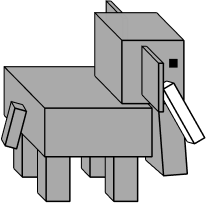
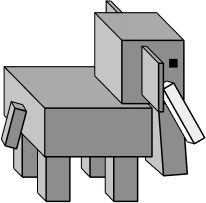
Simulate light on textures.

diff --git a/js/main.js b/js/main.js
@@ -110,9 +110,9 @@ function degToRad(degrees) {
  * @param fillColor Color of the faces of the box.
  * @param strokeColor Color of the edges of the box.
  */
-function strokeBox(x, y, z, width, height, depth, fillColor = "white", strokeColor = "black") {
+function strokeBox(x, y, z, width, height, depth, fillColor = ["white", "white", "white"], strokeColor = "black") {
     CTX.strokeStyle = strokeColor;
-    CTX.fillStyle = fillColor;
+    CTX.fillStyle = fillColor[2];
     let startPoint = [CANVAS.width / 2 + x - Math.cos(degToRad(45)) * z,
         CANVAS.height / 2 + y - Math.sin(degToRad(45)) * z];
 
@@ -121,24 +121,30 @@ function strokeBox(x, y, z, width, height, depth, fillColor = "white", strokeCol
     CTX.strokeRect(startPoint[0], startPoint[1], width, height);
 
     // Top side
-    let box = new Path2D();
-    box.moveTo(startPoint[0], startPoint[1]);
+    let top = new Path2D();
+    top.moveTo(startPoint[0], startPoint[1]);
     let leftUpPoint = [startPoint[0] - Math.cos(degToRad(45)) * (depth / 2),
         startPoint[1] - Math.sin(degToRad(45)) * (depth / 2)];
-    box.lineTo(leftUpPoint[0], leftUpPoint[1]);
-    box.lineTo(leftUpPoint[0] + width, leftUpPoint[1]);
-    box.lineTo(startPoint[0] + width, startPoint[1]);
-    box.lineTo(startPoint[0], startPoint[1]);
+    top.lineTo(leftUpPoint[0], leftUpPoint[1]);
+    top.lineTo(leftUpPoint[0] + width, leftUpPoint[1]);
+    top.lineTo(startPoint[0] + width, startPoint[1]);
+    top.lineTo(startPoint[0], startPoint[1]);
+
+    CTX.fillStyle = fillColor[1];
+    CTX.fill(top);
+    CTX.stroke(top);
 
     // Left side
-    box.moveTo(leftUpPoint[0], leftUpPoint[1]);
-    box.lineTo(leftUpPoint[0], leftUpPoint[1] + height);
-    box.lineTo(startPoint[0], startPoint[1] + height);
-    box.lineTo(startPoint[0], startPoint[1]);
-    box.closePath();
+    let left = new Path2D();
+    left.moveTo(leftUpPoint[0], leftUpPoint[1]);
+    left.lineTo(leftUpPoint[0], leftUpPoint[1] + height);
+    left.lineTo(startPoint[0], startPoint[1] + height);
+    left.lineTo(startPoint[0], startPoint[1]);
+    left.closePath();
 
-    CTX.fill(box);
-    CTX.stroke(box);
+    CTX.fillStyle = fillColor[0];
+    CTX.fill(left);
+    CTX.stroke(left);
 }
 
 /**
@@ -356,24 +362,24 @@ function tick() {
     SCORE_TEXT.innerHTML = scoreString + score;
 
     // Draw the road
-    strokeBox(-CANVAS.width, ROAD_LOCATION.y, ROAD_LOCATION.z, CANVAS.width * 2, CANVAS.height, ROAD_DEPTH, "skyblue");
+    strokeBox(-CANVAS.width, ROAD_LOCATION.y, ROAD_LOCATION.z, CANVAS.width * 2, CANVAS.height, ROAD_DEPTH, ["#997967", "#966b54", "#7a5743"]);
 
     // Draw walls behind the player
     for (let wall of walls[2]) {
         if (wall.x + wall.width - DEFAULT_PLAYER_LOCATION.x >= 0) {
-            strokeBox(wall.x, wall.y, ROAD_DEPTH / 3, wall.width, wall.height, ROAD_DEPTH / 3, "orange");
+            strokeBox(wall.x, wall.y, ROAD_DEPTH / 3, wall.width, wall.height, ROAD_DEPTH / 3, ["#fc9423", "#fc8403", "#c76700"]);
         }
     }
 
     if (Math.floor(playerLocation.z + PLAYER_DEPTH / 2) < Math.floor(ROAD_DEPTH / 3)) {
         for (let wall of walls[1]) {
-            strokeBox(wall.x, wall.y, ROAD_DEPTH / 6, wall.width, wall.height, ROAD_DEPTH / 3, "orange");
+            strokeBox(wall.x, wall.y, ROAD_DEPTH / 6, wall.width, wall.height, ROAD_DEPTH / 3, ["#fc9423", "#fc8403", "#c76700"]);
         }
     }
 
     if (Math.floor(playerLocation.z + PLAYER_DEPTH / 2) < Math.floor(ROAD_DEPTH / 6)) {
         for (let wall of walls[0]) {
-            strokeBox(wall.x, wall.y, 0, wall.width, wall.height, ROAD_DEPTH / 3, "orange");
+            strokeBox(wall.x, wall.y, 0, wall.width, wall.height, ROAD_DEPTH / 3, ["#fc9423", "#fc8403", "#c76700"]);
         }
     }
 
@@ -396,19 +402,19 @@ function tick() {
     // Draw the walls in front of the player
     for (let wall of walls[2]) {
         if (wall.x + wall.width - DEFAULT_PLAYER_LOCATION.x < 0) {
-            strokeBox(wall.x, wall.y, ROAD_DEPTH / 3, wall.width, wall.height, ROAD_DEPTH / 3, "orange");
+            strokeBox(wall.x, wall.y, ROAD_DEPTH / 3, wall.width, wall.height, ROAD_DEPTH / 3, ["#fc9423", "#fc8403", "#c76700"]);
         }
     }
 
     for (let wall of walls[1]) {
         if (wall.x + wall.width - DEFAULT_PLAYER_LOCATION.x < 0 || Math.floor(playerLocation.z + PLAYER_DEPTH / 2) >= Math.floor(ROAD_DEPTH / 3)) {
-            strokeBox(wall.x, wall.y, ROAD_DEPTH / 6, wall.width, wall.height, ROAD_DEPTH / 3, "orange");
+            strokeBox(wall.x, wall.y, ROAD_DEPTH / 6, wall.width, wall.height, ROAD_DEPTH / 3, ["#fc9423", "#fc8403", "#c76700"]);
         }
     }
 
     for (let wall of walls[0]) {
         if (wall.x + wall.width - DEFAULT_PLAYER_LOCATION.x < 0 || Math.floor(playerLocation.z + PLAYER_DEPTH / 2) >= Math.floor(ROAD_DEPTH / 6)) {
-            strokeBox(wall.x, wall.y, 0, wall.width, wall.height, ROAD_DEPTH / 3, "orange");
+            strokeBox(wall.x, wall.y, 0, wall.width, wall.height, ROAD_DEPTH / 3, ["#fc9423", "#fc8403", "#c76700"]);
         }
     }
 
